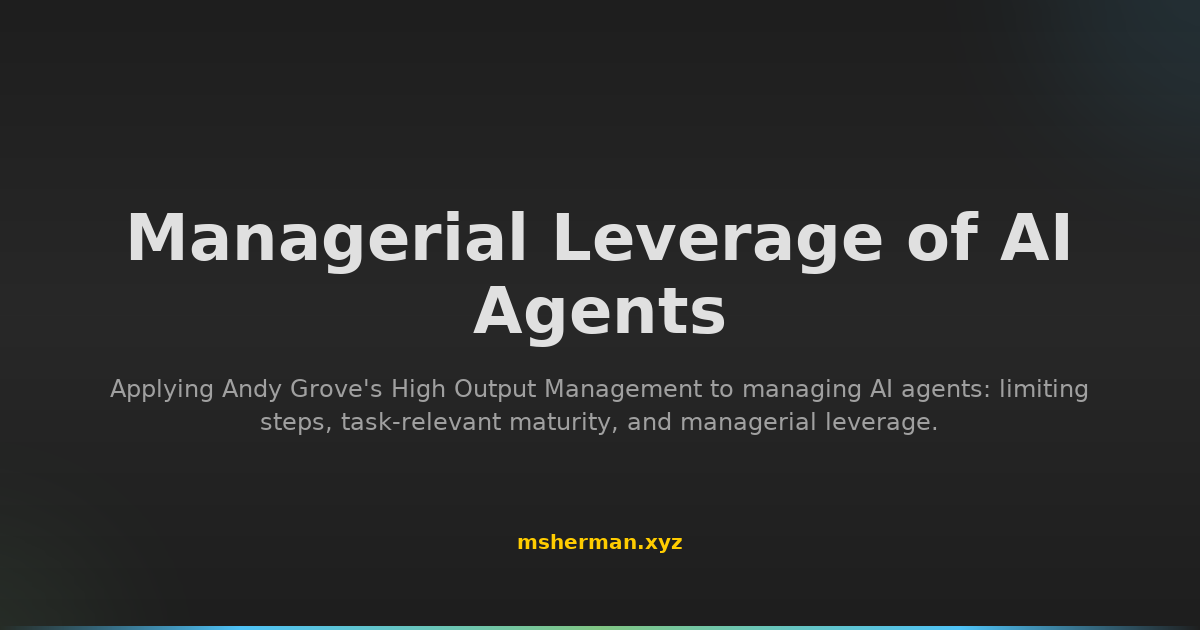
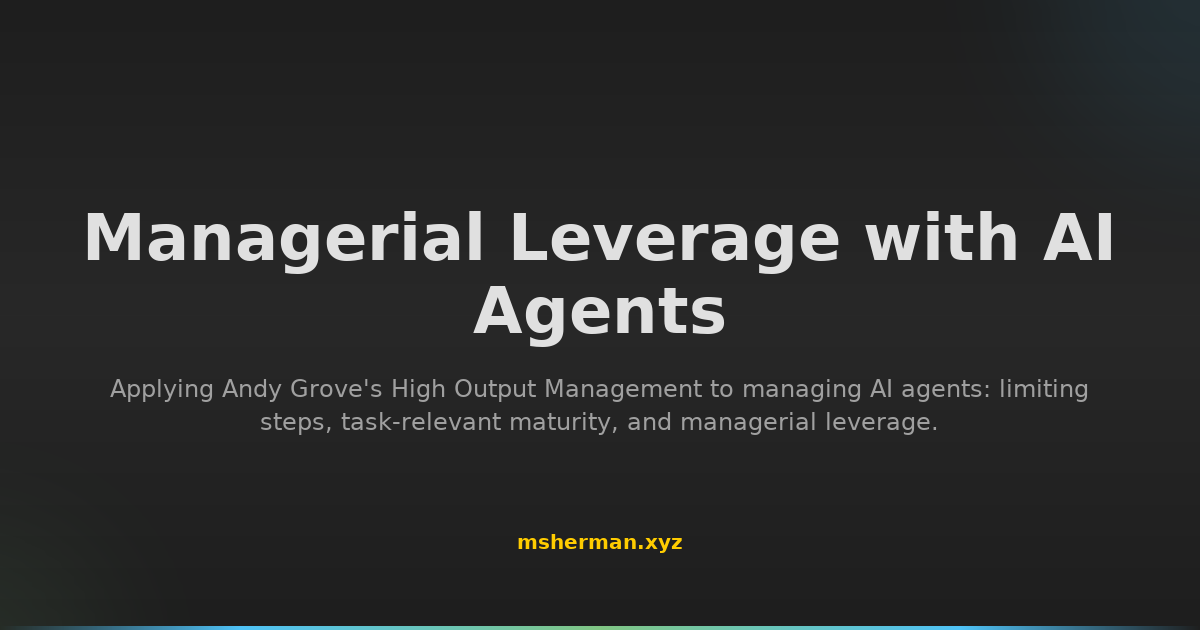
Publish: Managerial Leverage with AI Agents (2026-04-25)
Add new post applying Andy Grove's High Output Management framework to
managing AI agents (limiting steps, task-relevant maturity, leverage).
Update blog index (new 2026 section + JSON-LD ItemList entry) and
regenerate share image to reflect the corrected title ("with" vs. "of").

Changed region(s): [[0.0617, 0.3317, 0.925, 0.4524]]

diff --git a/hugo-site/content/posts/managerial_leverage.md b/hugo-site/content/posts/managerial_leverage.md
@@ -1,0 +1,92 @@
+---
+title: "Managerial Leverage with AI Agents"
+date: 2026-04-25
+description: "Applying Andy Grove's High Output Management to managing AI agents: limiting steps, task-relevant maturity, and managerial leverage."
+aliases: ["/p/managerial_leverage.html"]
+---
+
+
+
+# Managerial Leverage with AI Agents
+
+
+##### <time datetime="2026-04-25">April 25th, 2026</time>
+
+
+In _High Output Management_, Andy Grove argues that a manager's actions need to have leverage to improve a manager's output. In the world of 1983 when Grove wrote his book, high-leverage management activities could be achieved only through managing other employees.
+
+
+With the increase in agentic AI capabilities, managing AI agents is becoming another high leverage activity. And Grove's insights help us become more efficient managers of AI agents.
+
+
+---
+
+
+A key step in making a process more efficient is identifying its limiting step. In _High Output Management_, Grove has an example of a breakfast factory where the limiting step is boiling eggs. While toasting bread and pouring coffee are quick steps, the whole breakfast cannot be completed until the eggs are boiled which takes the longest out of all steps. Hence, the breakfast factory production flow should be designed by starting with the longest (or most difficult, or most sensitive, or most expensive) step and working back to other parts of the production process.
+
+
+Given the speed of development possible with AI agents, the limiting step is _you_. Hence, the AI production flow should be designed with you being the limiting step in mind. Any time you see yourself manually spending time on any task, you should ask yourself whether your contribution is truly necessary or whether it could be automated using rules, hooks, guardrails, etc.
+
+
+For instance, perhaps you are finding yourself spending time manually approving commands. While the command approval itself takes at most a few seconds, it is a limiting step because the agents cannot run until you approve the command. To solve this limiting step, you should set up an environment where you are comfortable using `--dangerously-skip-permissions`. That might involve installing Jeffrey Emmanuel's [Destructive Command Guard](https://github.com/Dicklesworthstone/destructive_command_guard) to prevent the execution of destructive commands. Alternatively, you might set up a special environment without access to prod, so agents' mistakes would not affect your product's end users.
+
+
+---
+
+
+Another limiting step might be agents consistently making similar mistakes that you then need to spend significant time fixing. While you can easily blame agents for their lack of accuracy (and be correct), blaming won't solve your issues. As Grove argues:
+
+
+> A manager's most important responsibility is to elicit top performance from his subordinates.
+
+
+If you don't elicit top performance from your agents, it is your failure as their manager. Grove argues that a key component of subordinates' performance is task-relevant maturity (TRM). If someone joins your company straight out of college, their TRM for almost all tasks is very low. Hence, they require close supervision with structured explanation of "what," "when," and "how." As your subordinates' TRM increases, you give fewer direct instructions and more support, mutual reasoning, and eventually have minimal involvement. This is similar for agents. When an agent's TRM is low due to either lackluster base model capabilities or low customization for your workflow/codebase, you need to carefully review the agents' work. Once your agents' TRM increases, you trust them to complete complex tasks well with intermittent monitoring. The increased TRM is often recorded in `AGENTS.md` files and in skills.
+
+
+Let's assume your agents' TRM is low. There are many ways you could increase their TRM.
+
+
+If your agent constantly produces UI bugs, you could mandate that an agent build your website/app locally and verify through screenshots that there are no UI issues. But also remember that agents are lazy, and simply saying "you must review your work" is insufficient to ensure quality outputs. A more effective approach would be to create a quality control checklist an agent needs to satisfy, and then mandate that an agent explicitly affirm that all checklist steps were completed in its output. Another option is writing a series of comprehensive tests that need to successfully pass before an agent can commit their work.
+
+
+If the issues are more stylistic/textual rather than structural, then you should encode your best practices into skills and easily queryable data sources. As you are the limiting step in getting agents to work, you need to continually redesign your coding process such that you minimize the number of tasks where lack of your input blocks progress. The time you spend improving your workflows allows the agents to work more autonomously in the future. That is managerial leverage.
+
+
+---
+
+
+Even with high TRM, agents will sometimes go off-target. In those cases, you should remember Grove's saying that "it is better to catch a bad raw egg than a cooked one." In more formal wording, "to get acceptable quality at the lowest cost, it is vitally important to reject defective material at a stage where its accumulated value is at the lowest possible level." For agents, this means quickly discarding code or conversations where an agent has gone off-target. It is a much more effective use of tokens to revert code changes, improve your original prompt, and start a new conversation rather than trying to salvage the original conversation.
+
+
+---
+
+
+A typical workflow of a software engineer now involves simultaneously managing a handful of AI agents and switching between them. You might find that the limiting step for prompting agents is your typing speed. If that is the case, then you should consider using voice dictation solutions like Wispr Flow.
+
+
+A lot of process limiting steps are worth automating away, but cognitive limiting steps are a valuable source of insight that turns into leverage. Thus, you should be wary of sacrificing quality for speed. If you very quickly give your subordinate a vague task, they might spend significant time exploring different approaches but none of them would be what you originally envisioned. Well-defined tasks allow subordinates to efficiently complete them. Using voice dictation usually means prioritizing speed and in-the-moment thinking when defining tasks for agents. But defining a task well requires intentional thought and one of the best ways to think is through writing. Grove cautions that both too few and too many subordinates reduce a manager's leverage:
+
+
+> An important component of managerial leverage is the number of subordinates a manager has. If he does not have enough, his leverage is obviously reduced. If he has too many, he gets bogged down—with the same result.
+
+
+It is obvious when you have too few subordinates and thus too little leverage: you have a lot of free time that is not used for other projects important for the firm. A less obvious insight from Grove is that attempting to maximize the number of your subordinates leads to suboptimal results. If you always use voice dictation with the goal of increasing your speed without reflecting on what is important for each task you give an agent, some details are bound to slip by; slop will begin to accumulate. Efficient use of subordinates requires a manager's thoughtfulness. For instance, using voice dictation to tell an agent to move a button is perfectly reasonable. However, telling an agent to implement a major refactor without considering trade-offs of different architectural choices is a less effective use of voice dictation.
+
+
+Leverage comes from actions where a manager carefully weighs the value of speed against thoughtfulness. As Grove said:
+
+
+> A manager must keep many balls in the air at the same time and shift his energy and attention to activities that will most increase the output of his organization. In other words, he should move to the point where his _leverage_ will be the greatest.
+
+
+---
+
+
+You are a manager of agents now. Start acting like one.
+
+
+---
+
+
+<iframe src="https://maksymsherman.substack.com/embed" style="border:1px solid #434343; background:#252525; width: 100%; max-width: 480px; height: 320px; display: block; margin: 0 auto;" frameborder="0" scrolling="no">
+</iframe>

diff --git a/hugo-site/content/blog.md b/hugo-site/content/blog.md
@@ -22,6 +22,8 @@ aliases: ["/blog.html"]
     <div class="cell-body">
       <div class="list-content">
         <h1>Blog</h1>
+        <h3>2026</h3>
+        <p><a href="/p/managerial_leverage">Managerial Leverage with AI Agents</a></p>
         <h3>2025</h3>
         <p><a href="/p/striking_while_the_iron_is_hot">Lyndon Johnson and Robert Caro: Striking While the Iron is Hot</a></p>
         <p><a href="/p/unpredictable">Unpredictable</a></p>
@@ -76,6 +78,11 @@ aliases: ["/blog.html"]
     ]
   },
   "itemListElement": [
+    {
+      "@type": "ListItem",
+      "url": "https://msherman.xyz/p/managerial_leverage",
+      "name": "Managerial Leverage with AI Agents"
+    },
     {
       "@type": "ListItem",
       "url": "https://msherman.xyz/p/striking_while_the_iron_is_hot",
